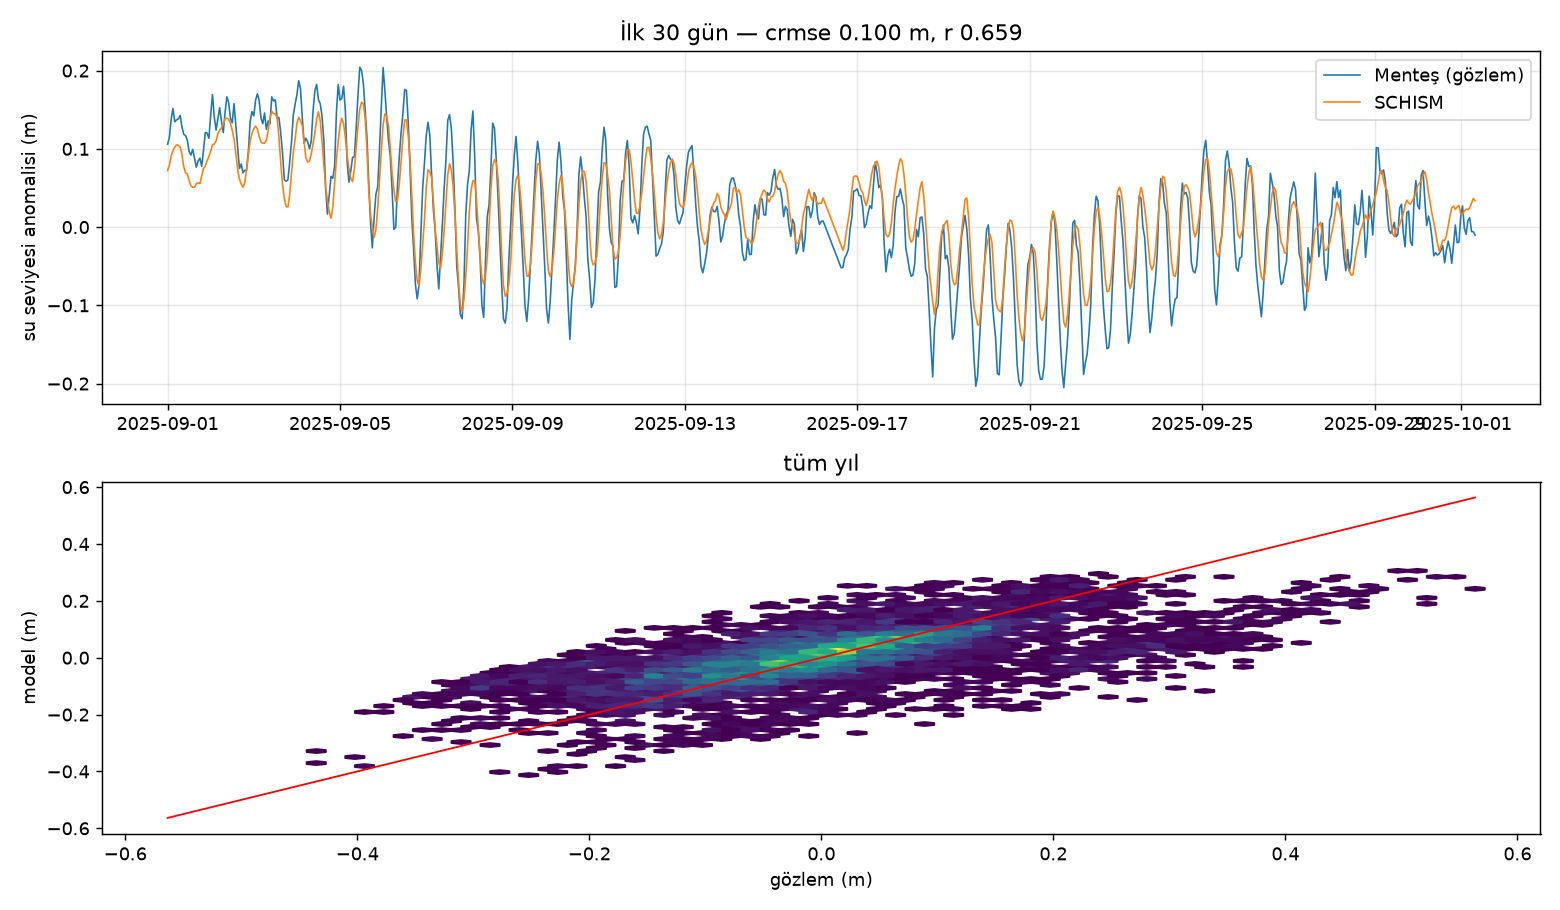
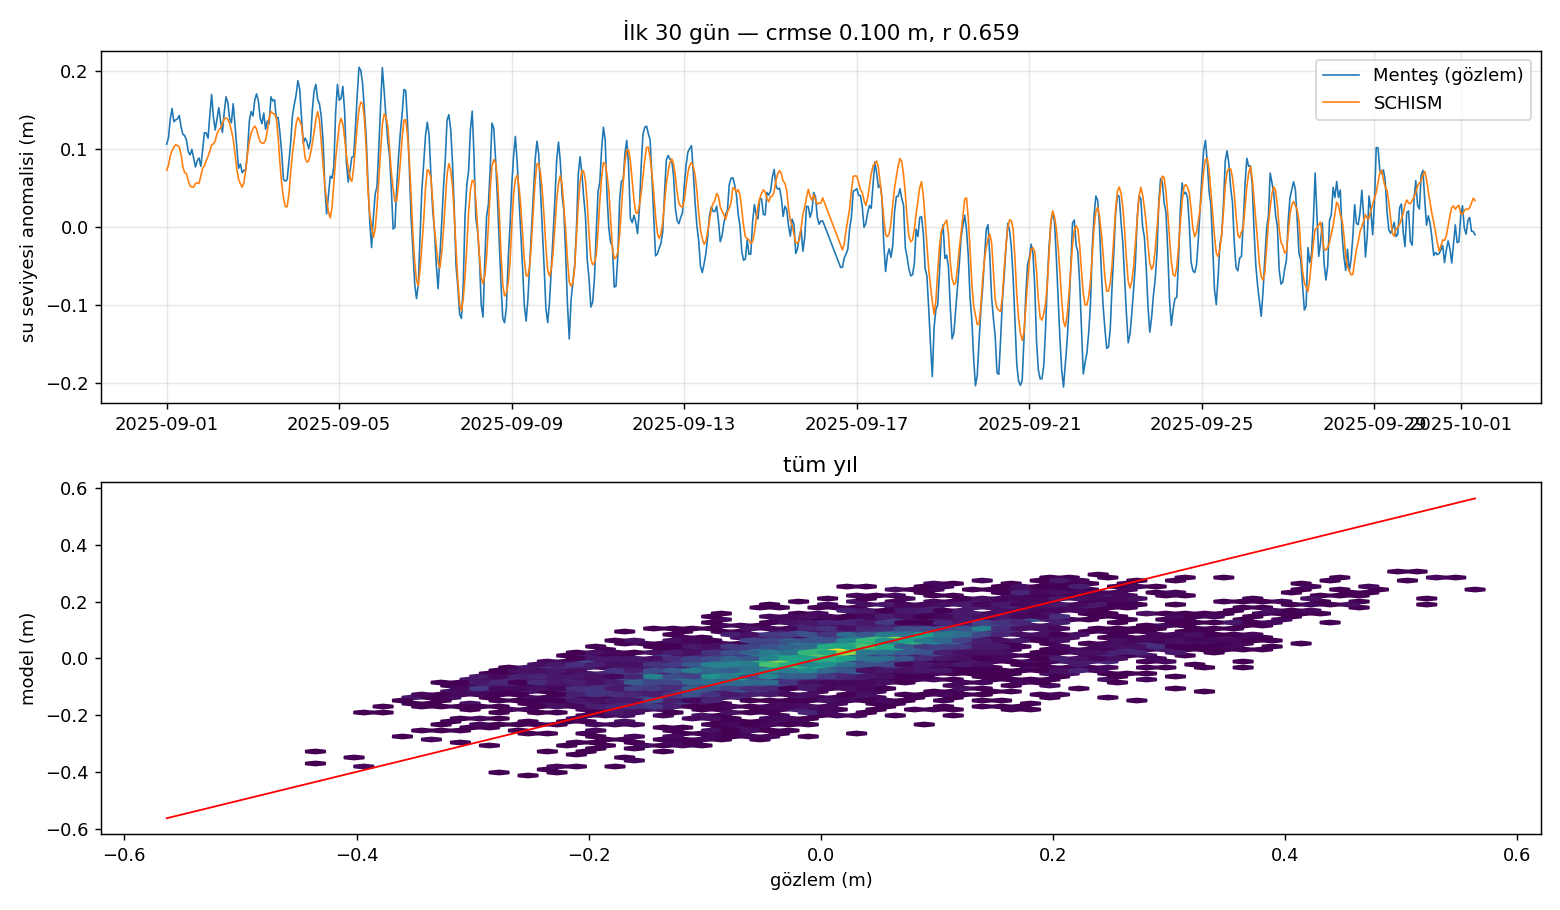
70: numpy ile gelgit harmonik cozumu (utide gereksiz) + gelgit/kalan ayristirmasi
Sonuc: hata gelgitte degil kabarmada. Gelgit crmse 2,5 cm / r 0,896; kalan (meteorolojik)
crmse 9,7 cm / r 0,604 -- 10,0 cm'lik toplam hatanin neredeyse tamami kalandan.

Gunluk bilesenler kusursuz (K1 1,04 / O1 1,07 genlik orani, faz hatasi 4 derece); yari-gunluk
sonumlu (M2 0,83, S2 0,53) ve ~28 derece onde. Dugum derinligi testi bunu eledi: 1 m'den 30 m'ye,
44 m'den 2,3 km'ye bes dugumde M2 orani 0,83-0,84 sabit -> yerel batimetri degil, CMEMS 4 km
sinir alanindan miras. Duzeltmesi en fazla 2 cm kazandirir, oncelik dusuk.

Claude-Session: https://claude.ai/code/session_01FLiTKRH4myxDxYJVfP9Hv1

diff --git a/scripts/70_validate_sealevel.py b/scripts/70_validate_sealevel.py
@@ -119,12 +119,31 @@ def metrics(o, m):
     return {"n": len(o), "bias_m": bias, "rmse_m": rmse, "crmse_m": crmse, "r": r,
             "std_obs_m": float(o.std()), "std_mod_m": float(m.std()), "std_orani": float(m.std() / o.std())}
 
+# Ana gelgit bileşenleri — derece/saat. Bir yıllık kayıt bunları ayırmaya fazlasıyla yeter
+# (en zoru K1-P1, ~183 gün gerektirir). Nodal düzeltme yok: aynı fit iki seriye de uygulandığı
+# için genlik/faz KARŞILAŞTIRMASINDA astronomik düzeltmeler büyük ölçüde sadeleşir.
+TIDES = {"M2": 28.9841042, "S2": 30.0000000, "N2": 28.4397295,
+         "K1": 15.0410686, "O1": 13.9430356, "P1": 14.9589314}
+
+def harmonic_fit(t, y, names=None):
+    """En küçük kareler gelgit uyumu. Döner: (bileşen -> (genlik m, faz °), uydurulan gelgit serisi)."""
+    names = names or list(TIDES)
+    t0 = t[0]
+    h = np.array([(ti - t0).total_seconds() / 3600.0 for ti in t])
+    cols = [np.ones_like(h)]
+    for n in names:
+        w = np.deg2rad(TIDES[n])
+        cols += [np.cos(w * h), np.sin(w * h)]
+    A = np.column_stack(cols)
+    coef, *_ = np.linalg.lstsq(A, y, rcond=None)
+    out = {}
+    for i, n in enumerate(names):
+        a, b = coef[1 + 2 * i], coef[2 + 2 * i]
+        out[n] = (float(np.hypot(a, b)), float(np.rad2deg(np.arctan2(-b, a)) % 360))
+    return out, A @ coef
+
 def harmonics(t, y, lat):
-    try: import utide
-    except ImportError: return None
-    tn = np.array([(ti - datetime(1, 1, 1)).total_seconds() / 86400 + 1 for ti in t])
-    c = utide.solve(tn, y - y.mean(), lat=lat, method="ols", conf_int="none", verbose=False)
-    return {n: (float(a), float(g)) for n, a, g in zip(c.name, c.A, c.g) if n in ("M2", "S2", "K1", "O1", "N2", "P1")}
+    return harmonic_fit(t, y)[0]
 
 def main():
     ap = argparse.ArgumentParser()
@@ -153,14 +172,22 @@ def main():
          f"  merkezlenmiş RMSE          {st['crmse_m']:.3f} m   ← asıl ölçüt",
          f"  Pearson r                  {st['r']:.3f}",
          f"  std gözlem / model         {st['std_obs_m']:.3f} / {st['std_mod_m']:.3f} m  (oran {st['std_orani']:.2f})"]
-    ho, hm = harmonics(ort, o, LAT), harmonics(ort, m, LAT)
-    if ho and hm:
-        L += ["", "gelgit harmonikleri (genlik m / faz °):", f"  {'bileşen':8s} {'gözlem':>16s} {'model':>16s}"]
-        for k in ("M2", "S2", "K1", "O1", "N2", "P1"):
-            if k in ho and k in hm:
-                L.append(f"  {k:8s} {ho[k][0]:8.4f} / {ho[k][1]:5.1f} {hm[k][0]:8.4f} / {hm[k][1]:5.1f}")
-    else:
-        L += ["", "(utide kurulu değil — harmonik karşılaştırma atlandı: pip install utide)"]
+    ho, fo = harmonic_fit(ort, o); hm, fm = harmonic_fit(ort, m)
+    L += ["", "gelgit harmonikleri (en küçük kareler; genlik cm / faz °):",
+          f"  {'bileşen':8s} {'gözlem':>14s} {'model':>14s}   {'genlik oranı':>12s} {'faz farkı':>10s}"]
+    for k in ("M2", "S2", "N2", "K1", "O1", "P1"):
+        ao, go = ho[k]; am, gm = hm[k]
+        dg = (gm - go + 180) % 360 - 180
+        L.append(f"  {k:8s} {100*ao:7.2f} / {go:5.1f} {100*am:7.2f} / {gm:5.1f}   {am/max(ao,1e-9):11.2f} {dg:+9.1f}°")
+    # gelgit çıkarıldıktan sonra kalan (meteorolojik) sinyal — hata nerede?
+    ro, rm = o - fo, m - fm
+    tide_o, tide_m = fo - fo.mean(), fm - fm.mean()
+    st_t = metrics(tide_o, tide_m); st_r = metrics(ro, rm)
+    L += ["", "hata nerede? (seri gelgit + kalan olarak ayrıştırıldı)",
+          f"  {'':22s} {'std gözlem':>11s} {'std model':>10s} {'crmse':>8s} {'r':>7s}",
+          f"  {'gelgit bileşeni':22s} {100*st_t['std_obs_m']:10.1f}cm {100*st_t['std_mod_m']:9.1f}cm {100*st_t['crmse_m']:7.1f}cm {st_t['r']:7.3f}",
+          f"  {'kalan (meteorolojik)':22s} {100*st_r['std_obs_m']:10.1f}cm {100*st_r['std_mod_m']:9.1f}cm {100*st_r['crmse_m']:7.1f}cm {st_r['r']:7.3f}",
+          f"  {'toplam':22s} {100*st['std_obs_m']:10.1f}cm {100*st['std_mod_m']:9.1f}cm {100*st['crmse_m']:7.1f}cm {st['r']:7.3f}"]
     OUT.mkdir(parents=True, exist_ok=True)
     (OUT / "sealevel_summary.txt").write_text("\n".join(L), encoding="utf-8")
     print("\n".join(L))

diff --git a/docs/sonuclar/dogrulama/BULGULAR.md b/docs/sonuclar/dogrulama/BULGULAR.md
@@ -20,8 +20,43 @@ Kapsama 6.518 / 8.784 saat (%74; mareograf kaydındaki boşluklar). Saat başın
 Hata (10 cm) gözlenen salınımın (13,2 cm) %76'sı kadar — yani ortalama bir sonuç, kötü değil ama
 "doğrulandı" demek için yeterli değil.
 
-**Açık soru:** hata gelgitte mi, meteorolojik kabarmada mı? Ayrıştırmak için `pip install utide` +
-`70_validate_sealevel.py` yeniden koşulmalı. Elenen olasılıklar:
+### Hata nerede? (gelgit / kalan ayrıştırması)
+
+Seri, en küçük kareler gelgit uyumuyla (M2 S2 N2 K1 O1 P1, numpy — utide gerekmiyor) ikiye ayrıldı:
+
+| bileşen | std gözlem | std model | crmse | r |
+|---|---|---|---|---|
+| gelgit | 5,6 cm | 4,5 cm | **2,5 cm** | **0,896** |
+| kalan (meteorolojik) | 12,0 cm | 8,8 cm | **9,7 cm** | **0,604** |
+| toplam | 13,2 cm | 9,8 cm | 10,0 cm | 0,659 |
+
+**Cevap net: hata gelgitte değil, kabarmada.** 10,0 cm'lik toplam hatanın 9,7 cm'i meteorolojik kalandan
+geliyor. Gelgit iyi tutuyor (r 0,90, hata 2,5 cm).
+
+Harmonikler (genlik cm / faz °):
+
+| bileşen | gözlem | model | genlik oranı | faz farkı |
+|---|---|---|---|---|
+| M2 | 5,51 / 135,9 | 4,57 / 107,3 | 0,83 | −28,6° |
+| S2 | 4,34 / 311,6 | 2,31 / 292,7 | **0,53** | −18,9° |
+| N2 | 1,05 / 283,0 | 0,81 / 245,4 | 0,77 | −37,6° |
+| K1 | 2,98 / 292,5 | 3,09 / 288,0 | **1,04** | −4,4° |
+| O1 | 1,68 / 341,8 | 1,80 / 337,7 | **1,07** | −4,0° |
+| P1 | 0,90 / 139,5 | 1,26 / 134,9 | 1,40 | −4,5° |
+
+**Günlük bileşenler (K1, O1, P1) neredeyse kusursuz** — genlik oranı 1,04–1,07, faz hatası 4°.
+**Yarı-günlük bileşenler (M2, S2, N2) sönümlü ve ~28° önde.**
+
+Bu sönüm mareograf düğümünün sığ olmasından (1,0 m) DEĞİL: Menteş çevresinde 1 m'den 30 m'ye, 44 m'den
+2,3 km'ye kadar beş düğüm denendi, M2 oranı 0,83–0,84 ve faz −28,6° sabit kaldı. Yani yerel batimetri ya da
+dip sürtünmesi değil, **sınır koşulundan miras alınan** bir hata — CMEMS'in 4 km'lik `zos` alanı Ege'deki
+küçük ve karmaşık yarı-günlük gelgiti yerel olarak tam çözemiyor. Günlük gelgitin daha geniş ölçekli
+olması ve iyi tutması bu okumayı destekliyor.
+
+**Ama düzeltmeye değmez:** gelgit toplam salınımın yalnız 5,6/13,2'si ve hatası 2,5 cm. `bctides.in`'e
+FES2014/TPXO harmonikleri eklemek (`nbfr > 0`) en fazla ~2 cm kazandırır. Asıl açık kabarmada.
+
+Elenen diğer olasılıklar:
 - Açık sınırda gelgit YOK gibi görünüyor (`bctides.in`: `nbfr = 0`) **ama** CMEMS `zos` ürünü gelgit
   içeriyor ([MEDSEA_ANALYSISFORECAST_PHY_006_013](https://data.marine.copernicus.eu/product/MEDSEA_ANALYSISFORECAST_PHY_006_013/description)
   — "including tides"; ayrıca ayrı bir "detided" sürümü var). Yani gelgit sınırdan zaman serisi olarak giriyor.
@@ -71,7 +106,11 @@ sürüklenme de az enerjili demektir. Duyarlılık koşuları (windage 0,01 / 0,
 doğru yolu — artık keyfi bir duyarlılık testi değil, gözleme dayalı bir gerekçesi var.
 
 ## Sıradaki
-1. `pip install utide` → `70` yeniden koş: gelgit mi, kabarma mı?
-2. Mareograf kaydındaki 5 sıçramayı ayıkla, metrikleri yeniden hesapla.
-3. Duyarlılık koşuları — windage bandı artık gerekçeli.
-4. Katman 2 (drifter) hâlâ tek gerçek Lagrange doğrulaması.
+1. ~~gelgit mi, kabarma mı~~ — **cevaplandı: kabarma.** Gelgit r 0,90 / 2,5 cm; kalan r 0,60 / 9,7 cm.
+2. Kabarmayı iyileştirmek: ERA5 yerine daha yüksek çözünürlüklü rüzgâr (CARRA yok bu bölgede; alternatif
+   ERA5 üzerinden bir rüzgâr ölçek katsayısı ya da WRF ile dinamik indirgeme) — maliyeti yüksek, önce
+   duyarlılıkla bracketlemek daha mantıklı.
+3. Duyarlılık koşuları — windage bandı artık gözleme dayalı gerekçeli (model zorlaması %25 az enerjili).
+4. Mareograf kaydındaki 5 sıçramayı ayıkla, metrikleri yeniden hesapla (etkisi küçük olmalı).
+5. Gelgit için `nbfr > 0` + FES2014 — ikinci sürüm, kazanç ~2 cm, öncelik düşük.
+6. Katman 2 (drifter) hâlâ tek gerçek Lagrange doğrulaması.
